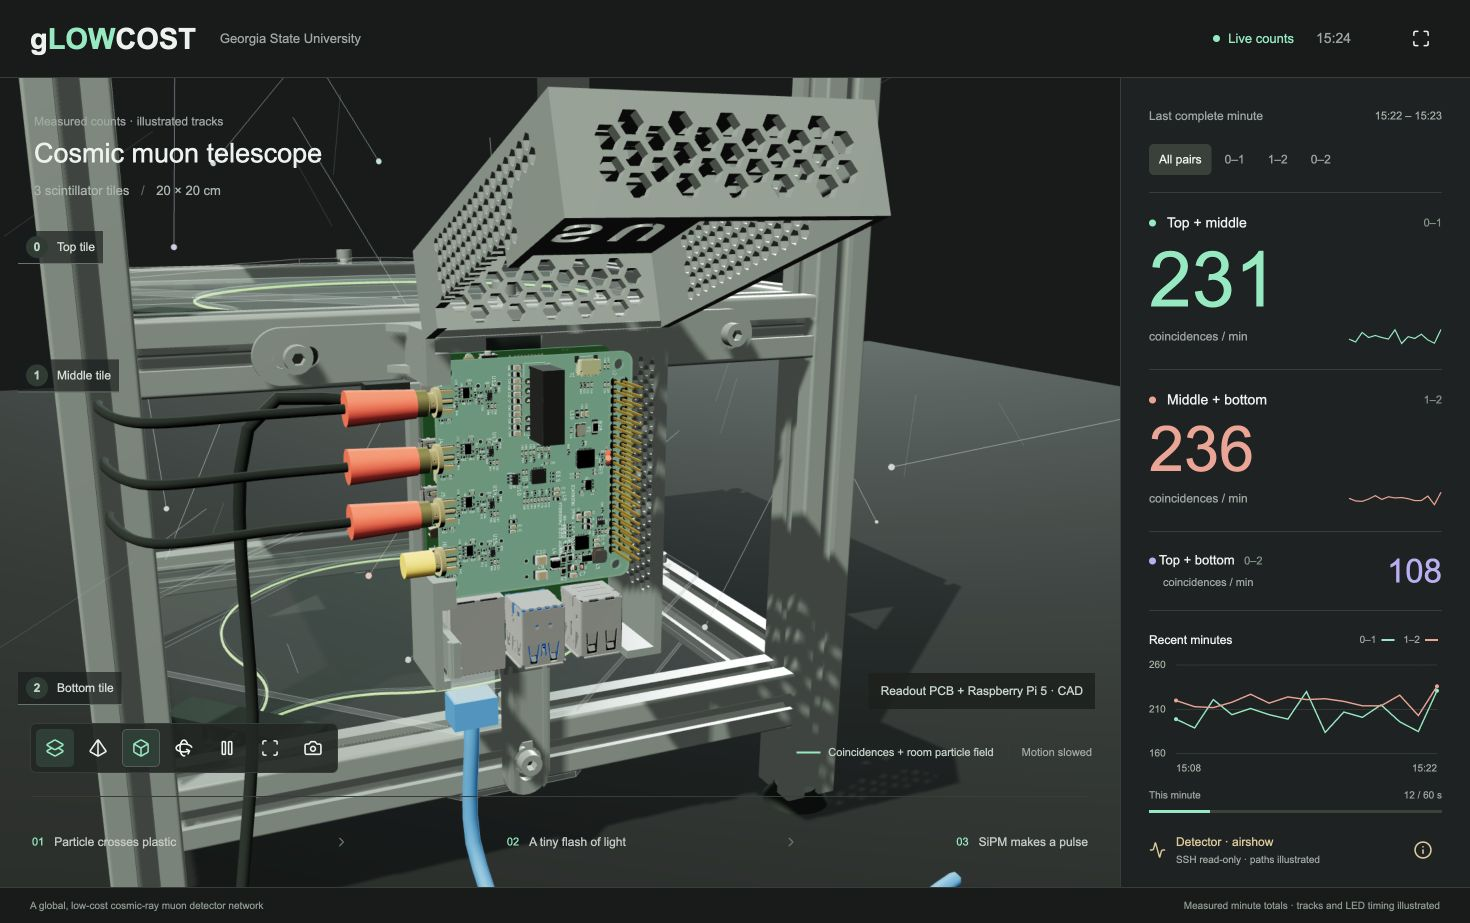
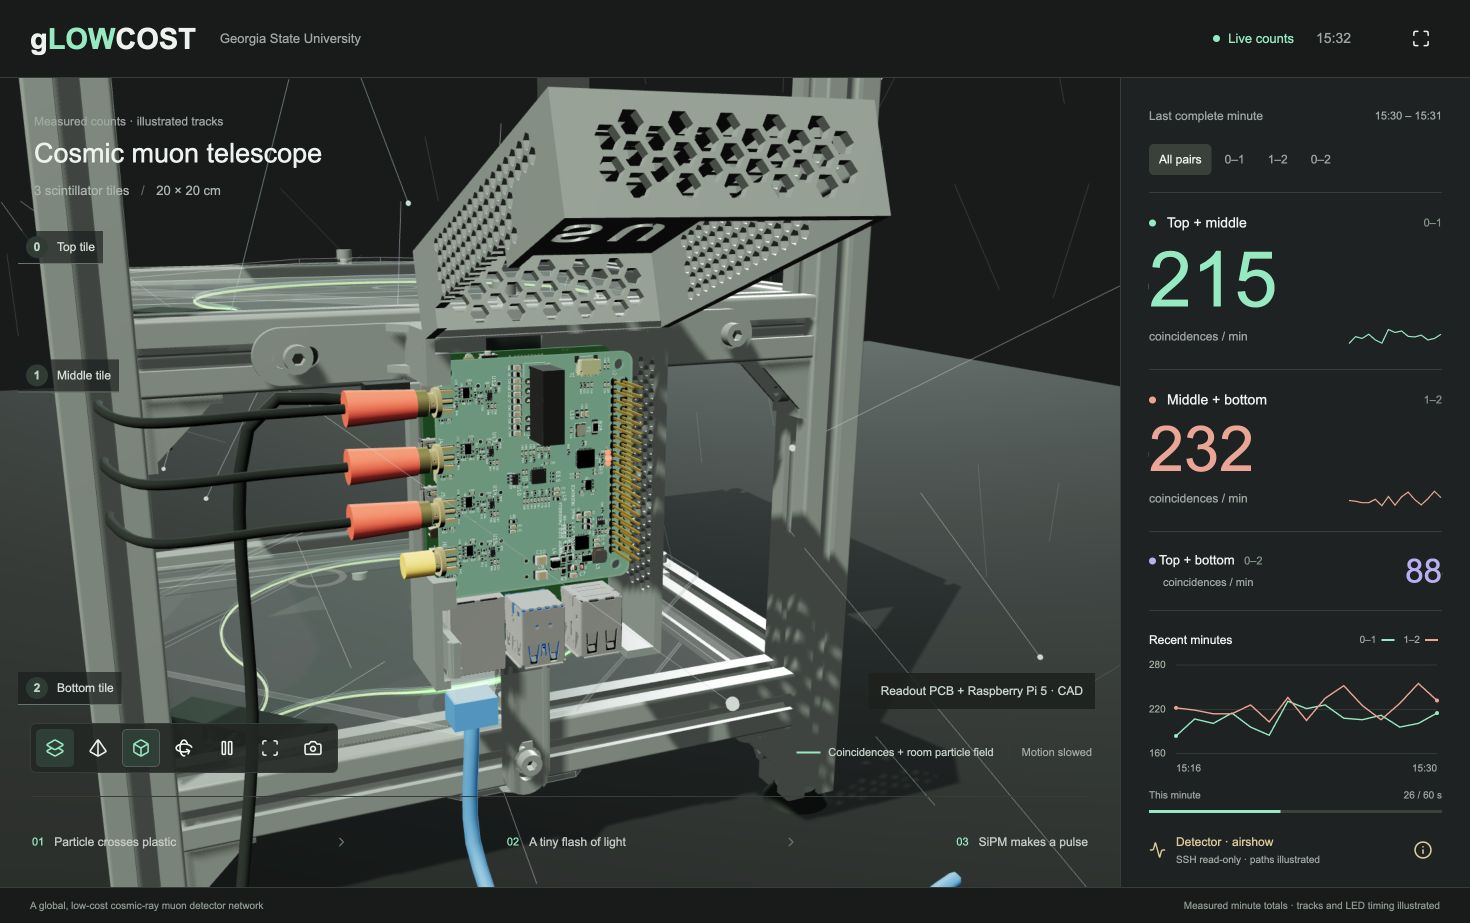
Add lower acrylic screws and gusseted extrusion corner brackets

diff --git a/public/corner-brackets.js b/public/corner-brackets.js
@@ -1,0 +1,76 @@
+import * as THREE from './vendor/three.module.js';
+import { socketFastener } from './fasteners.js';
+
+function bracketParts() {
+  const plate = new THREE.Shape();
+  plate.moveTo(0, -0.8);
+  plate.lineTo(2, -0.8);
+  plate.lineTo(2, 0.8);
+  plate.lineTo(0, 0.8);
+  plate.closePath();
+  const hole = new THREE.Path();
+  hole.absarc(1.2, 0, 0.225, 0, Math.PI * 2, true);
+  plate.holes.push(hole);
+  const horizontal = new THREE.ExtrudeGeometry(plate, { depth: 0.25, bevelEnabled: false, curveSegments: 12 });
+  horizontal.rotateX(-Math.PI / 2);
+  const swap = new THREE.Matrix4().makeBasis(new THREE.Vector3(0, 1, 0),
+    new THREE.Vector3(1, 0, 0), new THREE.Vector3(0, 0, -1));
+  const vertical = horizontal.clone().applyMatrix4(swap);
+  const triangle = new THREE.Shape();
+  triangle.moveTo(0.25, 0.25);
+  triangle.lineTo(1.7, 0.25);
+  triangle.lineTo(0.25, 1.7);
+  triangle.closePath();
+  const gusset = new THREE.ExtrudeGeometry(triangle, { depth: 0.12, bevelEnabled: false });
+  return { horizontal, vertical, gusset };
+}
+
+export function addCornerBrackets(model, material, heights) {
+  const parts = bracketParts();
+  const batches = new Map();
+  let bracketCount = 0;
+  for (const height of heights) for (const sx of [-1, 1]) for (const sz of [-1, 1]) {
+    // Each post-to-rail junction has one bracket for each horizontal rail.
+    for (const alongX of [true, false]) {
+      const bracket = new THREE.Group();
+      bracket.add(new THREE.Mesh(parts.horizontal, material), new THREE.Mesh(parts.vertical, material));
+      for (const z of [-0.8, 0.68]) {
+        const wall = new THREE.Mesh(parts.gusset, material);
+        wall.position.z = z;
+        bracket.add(wall);
+      }
+      const underRail = socketFastener(material, 0.65);
+      underRail.rotation.x = -Math.PI / 2;
+      underRail.position.set(1.2, 0.27, 0);
+      const intoPost = socketFastener(material, 0.65);
+      intoPost.rotation.y = Math.PI / 2;
+      intoPost.rotateZ(Math.PI / 2);
+      intoPost.position.set(0.27, 1.2, 0);
+      bracket.add(underRail, intoPost);
+      const inward = alongX ? new THREE.Vector3(-sx, 0, 0) : new THREE.Vector3(0, 0, -sz);
+      const down = new THREE.Vector3(0, -1, 0);
+      bracket.quaternion.setFromRotationMatrix(new THREE.Matrix4().makeBasis(inward, down,
+        new THREE.Vector3().crossVectors(inward, down)));
+      bracket.position.set(sx * (alongX ? 10.16 : 11.16), height - 1,
+        sz * (alongX ? 11.16 : 10.16));
+      bracket.updateMatrixWorld(true);
+      bracket.traverse(part => {
+        if (!part.isMesh) return;
+        const key = `${part.geometry.uuid}:${part.material.uuid}`;
+        if (!batches.has(key)) batches.set(key, { geometry: part.geometry, material: part.material, matrices: [] });
+        batches.get(key).matrices.push(part.matrixWorld.clone());
+      });
+      bracketCount++;
+    }
+  }
+  // Repeated brackets and screws share GPU draw calls rather than hundreds of meshes.
+  for (const batch of batches.values()) {
+    const instances = new THREE.InstancedMesh(batch.geometry, batch.material, batch.matrices.length);
+    batch.matrices.forEach((matrix, index) => instances.setMatrixAt(index, matrix));
+    instances.instanceMatrix.needsUpdate = true;
+    instances.castShadow = true;
+    instances.receiveShadow = true;
+    model.add(instances);
+  }
+  return { brackets: bracketCount, screws: bracketCount * 2, batches: batches.size };
+}

diff --git a/public/fasteners.js b/public/fasteners.js
@@ -1,5 +1,14 @@
 import * as THREE from './vendor/three.module.js';
 
+const geometries = new Map();
+const washerMaterials = new WeakMap();
+const recessMaterial = new THREE.MeshStandardMaterial({ color: '#171a19', roughness: 0.8 });
+
+function geometry(key, build) {
+  if (!geometries.has(key)) geometries.set(key, build());
+  return geometries.get(key);
+}
+
 // Display dimensions approximate an M4 socket-head screw, washer and sliding nut.
 // The group's +Z axis points outwards from the mounting surface.
 export function socketFastener(material, length = 1) {
@@ -14,19 +23,21 @@ export function socketFastener(material, length = 1) {
   }
   socket.closePath();
   head.holes.push(socket);
-  const cap = new THREE.Mesh(new THREE.ExtrudeGeometry(head,
-    { depth: 0.4, bevelEnabled: false, curveSegments: 16 }), material);
-  const recess = new THREE.Mesh(new THREE.CircleGeometry(0.175, 6),
-    new THREE.MeshStandardMaterial({ color: '#171a19', roughness: 0.8 }));
+  const cap = new THREE.Mesh(geometry('cap', () => new THREE.ExtrudeGeometry(head,
+    { depth: 0.4, bevelEnabled: false, curveSegments: 16 })), material);
+  const recess = new THREE.Mesh(geometry('socket', () => new THREE.CircleGeometry(0.175, 6)), recessMaterial);
   recess.position.z = 0.07;
-  const washer = new THREE.Mesh(new THREE.RingGeometry(0.205, 0.45, 24), material);
-  washer.material = material.clone();
-  washer.material.side = THREE.DoubleSide;
+  if (!washerMaterials.has(material)) {
+    const washerMaterial = material.clone();
+    washerMaterial.side = THREE.DoubleSide;
+    washerMaterials.set(material, washerMaterial);
+  }
+  const washer = new THREE.Mesh(geometry('washer', () => new THREE.RingGeometry(0.205, 0.45, 24)), washerMaterials.get(material));
   washer.position.z = 0.02;
-  const shaft = new THREE.Mesh(new THREE.CylinderGeometry(0.2, 0.2, length, 12), material);
+  const shaft = new THREE.Mesh(geometry(`shaft-${length}`, () => new THREE.CylinderGeometry(0.2, 0.2, length, 12)), material);
   shaft.rotation.x = Math.PI / 2;
   shaft.position.z = -length / 2;
-  const nut = new THREE.Mesh(new THREE.BoxGeometry(1, 0.6, 0.25), material);
+  const nut = new THREE.Mesh(geometry('nut', () => new THREE.BoxGeometry(1, 0.6, 0.25)), material);
   nut.position.z = -length + 0.125;
   group.add(cap, recess, washer, shaft, nut);
   group.traverse(part => { if (part.isMesh) part.castShadow = true; });

diff --git a/public/mechanics.js b/public/mechanics.js
@@ -4,6 +4,7 @@ import { GLTFLoader } from '/vendor/loaders/GLTFLoader.js';
 import { FibreLight, fibreCurve, tilePoint } from './fibre.js';
 import { TILE_HEIGHTS, ACRYLIC_ANGLE, ACRYLIC_MOUNTS, ACRYLIC_OFFSET, RUBBER_FOOT } from './detector-geometry.js';
 import { socketFastener } from './fasteners.js';
+import { addCornerBrackets } from './corner-brackets.js';
 
 function acrylicShape(data) {
   const shape = new THREE.Shape(data.outline.map(p => new THREE.Vector2(...p)));
@@ -52,6 +53,7 @@ export async function installMechanicalParts(view) {
       side.rotation.y = Math.PI / 2;
     }
   }
+  view.cornerMounts = addCornerBrackets(view.model, view.silver, TILE_HEIGHTS);
 
   tile.translate(-100, -100, -5).scale(0.1, 0.1, 0.1).rotateX(-Math.PI / 2);
   holder.translate(-100, -100, -5).scale(0.1, 0.1, 0.1).rotateX(-Math.PI / 2);
@@ -67,6 +69,7 @@ export async function installMechanicalParts(view) {
   view.fibreLights = [];
   view.cushions = [];
   view.mechanicalSheets = [];
+  view.acrylicFastenerCount = 0;
   for (const old of view.sandwichPieces) { view.model.remove(old); old.geometry.dispose(); }
   view.tiles.forEach((item, index) => {
     const y = TILE_HEIGHTS[index];
@@ -101,13 +104,14 @@ export async function installMechanicalParts(view) {
       lining.castShadow = false;
       view.cushions.push(lining);
     }
-    for (const [x, z] of ACRYLIC_MOUNTS) {
+    for (const sign of [-1, 1]) for (const [x, z] of ACRYLIC_MOUNTS) {
       const screw = socketFastener(view.silver, 0.65);
-      screw.rotation.x = -Math.PI / 2;
-      screw.position.set(x, y + ACRYLIC_OFFSET + 0.13, z);
+      screw.rotation.x = -sign * Math.PI / 2;
+      screw.position.set(x, y + sign * (ACRYLIC_OFFSET + 0.13), z);
       // The sliding nut follows the longitudinal slot of each beam.
       if (x) screw.rotateZ(Math.PI / 2);
       view.model.add(screw);
+      view.acrylicFastenerCount++;
     }
     const light = new FibreLight(fibreCurve(fibre, y), fibre.diameter_mm / 20);
     view.model.add(light.core, light.glow);

diff --git a/public/app.js b/public/app.js
@@ -80,6 +80,8 @@ function updateClock() {
     $('scene').dataset.portsAligned = String(!!scene.portsAligned);
     $('scene').dataset.headerErrorMm = String(scene.hardware.headerErrorMm ?? '');
     $('scene').dataset.mountingErrorMm = String(scene.hardware.mountingErrorMm ?? '');
+    $('scene').dataset.acrylicFasteners = String(scene.acrylicFastenerCount || 0);
+    $('scene').dataset.cornerBrackets = String(scene.cornerMounts?.brackets || 0);
   }
   if (lastMessage && performance.now() - lastMessage > 6000) {
     connected = false;

diff --git a/VERIFICATION.md b/VERIFICATION.md
@@ -4,7 +4,7 @@ Checked locally on 20 October 2026.
 
 ## Automated tests
 
-All 23 Node tests pass. They cover the simulation rate near 230/min per
+All 26 Node tests pass. They cover the simulation rate near 230/min per
 adjacent pair, track intersections, misses and single hits, completed bins,
 reproducible IDs, log column order, partial lines, stale data, square-pyramid
 boundaries, fibre endpoints, green light, mounting holes, GPIO placement,
@@ -22,6 +22,10 @@ optical-efficiency measurement.
 - The 10 mm tile and 15 mm holder sit within each 20 mm beam height. Rendering
   and track intersections share the same recessed plane heights.
 - Socket-head screws, washers and sliding T-nuts secure the acrylic and box.
+- The scene contains 24 acrylic fasteners: four above and four below each
+  level. Lower screw heads face downwards. There are 24 gusseted corner
+  brackets with 48 screws, using the same head and nut geometry as the other
+  mounts. These repeated bracket parts use eight instanced draw batches.
 - Clear acrylic profiles extend outside the beams, while translucent broad
   faces and cushioning leave the scintillator and fibre visible.
 - The centered enclosure has USB-C and Ethernet connections located from the
@@ -41,7 +45,7 @@ optical-efficiency measurement.
 - All three illustrative LED flash counters advance. Their markers are red.
 - Wrapped/transparent tiles, acceptance, and cover controls work.
 - Desktop and 390 x 844 phone screenshots show a nonblank scene. Scene-region
-  pixel standard deviations were 46.4 and 46.6 respectively. Earlier successive
+  pixel standard deviations were 47.3 and 47.1 respectively. Earlier successive
   desktop captures changed more than 200,000 pixels in the checked region.
 - Phone layouts at 390 x 844 and 320 x 700 have no horizontal page overflow.
 

diff --git a/docs/ASSETS.md b/docs/ASSETS.md
@@ -90,10 +90,18 @@ of a woven cushion, not a scanned surface.
 The tile planes coincide with the horizontal beam centre heights. A tile is
 10 mm thick and the supplied holder spans 15 mm vertically; both fit within
 the 20 mm extrusion height. The clear sheets sit above and below the tile.
-Four illustrated socket-head screws, washers, and sliding T-nuts sit over the
-beam slots at each level. The supplied box has three mounting-wing slots,
+Four illustrated socket-head screws, washers, and sliding T-nuts sit above
+each upper sheet; another four face down under each lower sheet. The supplied box has three mounting-wing slots,
 which receive the same type of hardware. The M4-sized fasteners are drawn
 for the display, not taken from a manufacturer CAD model.
+
+Each post-to-rail joint has a gusseted right-angle extrusion bracket. There
+are two at each corner, one for each horizontal rail, giving 24 brackets
+across the three levels. Each has two M4-style socket-head screws and sliding
+T-nuts. The 20 mm bracket legs, gussets, and clearance holes are illustrative
+geometry, not CAD for a particular supplier's bracket. Screw heads, washers,
+and nuts share the same geometry throughout; shaft length follows the mount.
+The repeated bracket parts are instanced in eight GPU batches.
 
 The sheets' 2 mm profiles sit just outside the beam height. Their broad faces
 are more transparent than their edges. The cushioning is shown translucent

diff --git a/README.md b/README.md
@@ -119,8 +119,10 @@ measurements taken from the artwork.
 
 The scintillator and its holder sit within the horizontal beams, so neither
 protrudes in a level side view. Four socket-head screws and sliding T-nuts
-secure each acrylic assembly. The readout uses its three existing mounting
-wing slots. Fastener dimensions are illustrative M4-sized hardware.
+secure each upper sheet, and four face downwards beneath each lower sheet.
+Gusseted angle brackets join the horizontal extrusions to the posts. The
+brackets and readout mounts use the same screw-head and T-nut style.
+Fastener dimensions are illustrative M4-sized hardware.
 
 The clear sheets extend just beyond the beam height, so their 2 mm profiles
 can be seen from the side. In the transparent view, the acrylic faces and
@@ -179,6 +181,7 @@ these illustrated intersections are added to the measured numbers.
 | `public/readout-placement.js` | Aligns the GPIO header and defines the side cable route |
 | `public/detector-geometry.js` | Shares the recessed tile heights and acrylic orientation |
 | `public/fasteners.js` | Draws socket-head screws, washers and sliding T-nuts |
+| `public/corner-brackets.js` | Places and batches the gusseted extrusion brackets |
 | `public/hardware.js` | Loads the PCB and Pi CAD and flashes the indicators |
 | `public/acceptance.js` | Defines the selected-pair acceptance geometry |
 | `public/charts.js` | Draws the count history |

diff --git a/docs/DEVELOPMENT.md b/docs/DEVELOPMENT.md
@@ -31,6 +31,9 @@ by the browser must never increment a number labelled as a measurement.
   sheets and lettering together without turning the scintillator or fibre.
 - Socket-head screws and T-nuts: `fasteners.js`; mounting positions are in
   `mechanics.js` and `detector-geometry.js`.
+- Extrusion corner brackets: `corner-brackets.js`. The same fastener helper
+  is used on both bracket legs. Geometry and materials are shared so repeated
+  parts can be instanced instead of adding a draw call for every screw.
 - Acrylic profile height: `ACRYLIC_OFFSET`. Face opacity is set in `scene.js`;
   edge and cushion materials are in `mechanics.js`. Both liner opacity values
   must also agree with `setCutaway()`.
